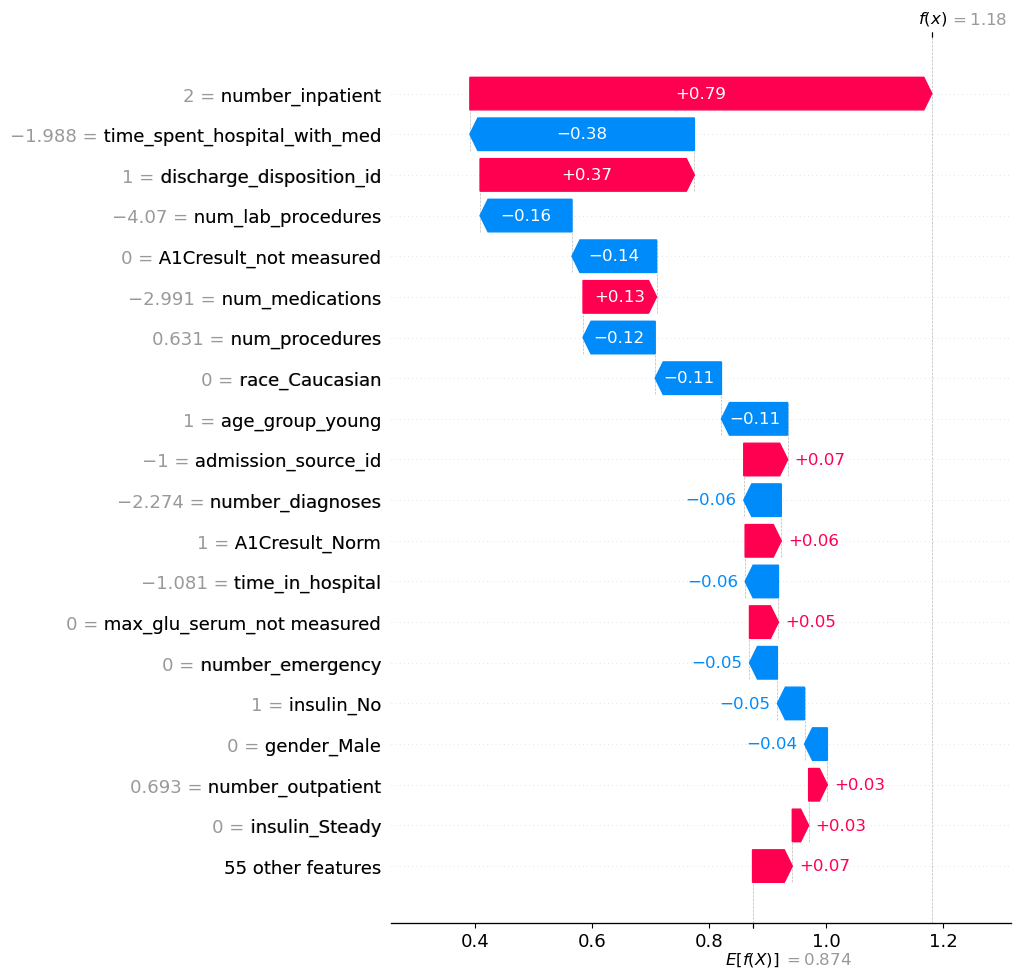
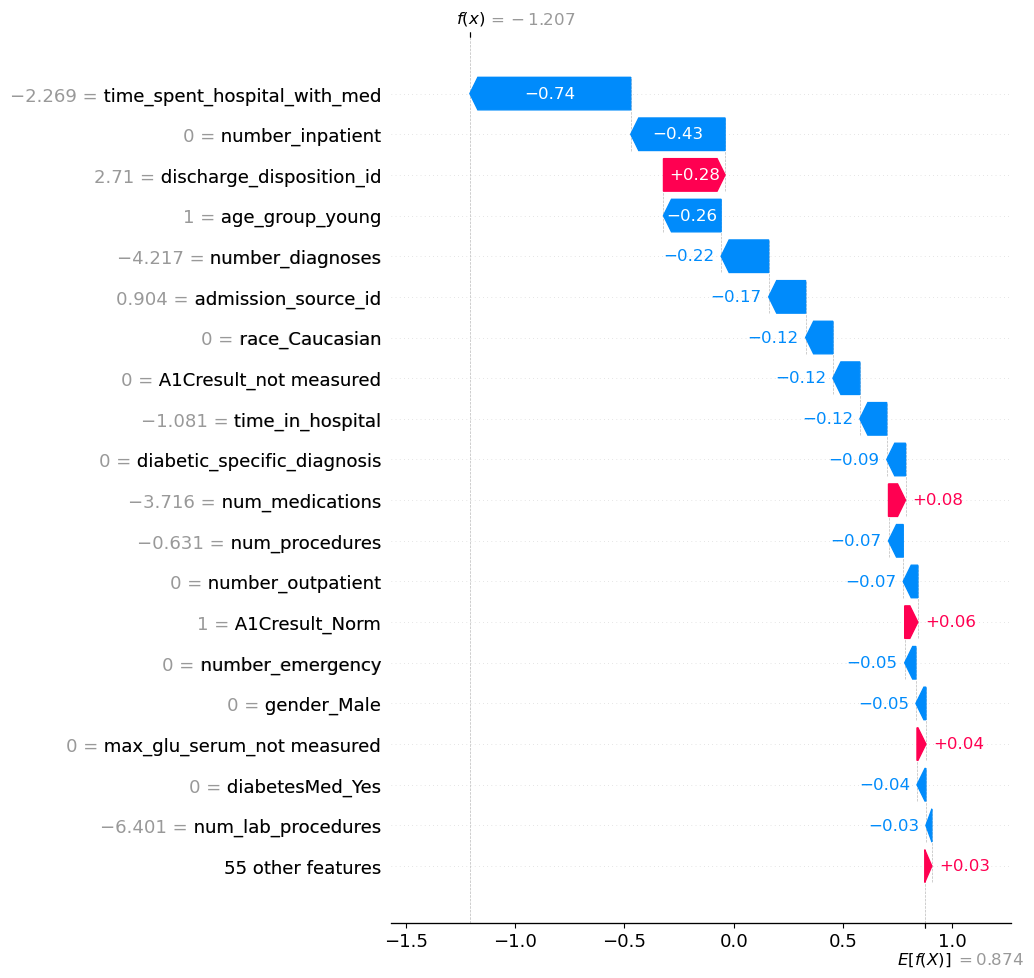
more changes on templates

diff --git a/Flask/templates/general_projects.html b/Flask/templates/general_projects.html
@@ -1,7 +1,54 @@
 {% extends 'bio.html' %}
 {% block title %}General Projects{% endblock %}
-{% block content %}
-<h1>General Projects</h1>
 
-<a href="https://github.com/slavdefense">Github</a>
+{% block content %}
+<div class="container mt-5">
+  <h1 class="mb-4 text-center">General Projects</h1>
+
+  <div class="row g-4">
+    <div class="col-md-6">
+      <div class="card h-100 shadow-sm">
+        <div class="card-body">
+          <h5 class="card-title">Casino Slot Game</h5>
+          <p class="card-text">A fun browser-based slot machine game (not real money).</p>
+          <a href="https://sagun-shresthaslotmachine.surge.sh/" class="btn btn-outline-primary" target="_blank">View Live</a>
+        </div>
+      </div>
+    </div>
+
+    <div class="col-md-6">
+      <div class="card h-100 shadow-sm">
+        <div class="card-body">
+          <h5 class="card-title">Bike Trail Blog App</h5>
+          <p class="card-text">Full-stack blog platform to share and explore biking trails.</p>
+          <a href="https://github.com/slavdefense/mountainbike-trail-youlove" class="btn btn-outline-primary" target="_blank">GitHub Repo</a>
+        </div>
+      </div>
+    </div>
+
+    <div class="col-md-6">
+      <div class="card h-100 shadow-sm">
+        <div class="card-body">
+          <h5 class="card-title">Backlog Project Manager</h5>
+          <p class="card-text">A MERN stack app to organize tasks and manage workflows.</p>
+          <a href="https://github.com/slavdefense/Backlog-MERN-Stack" class="btn btn-outline-primary" target="_blank">GitHub Repo</a>
+        </div>
+      </div>
+    </div>
+
+    <div class="col-md-6">
+      <div class="card h-100 shadow-sm">
+        <div class="card-body">
+          <h5 class="card-title">Car Rental Platform</h5>
+          <p class="card-text">A peer-to-peer vehicle rental web app inspired by Airbnb.</p>
+          <a href="https://github.com/slavdefense/Car-rental-made-easy" class="btn btn-outline-primary" target="_blank">GitHub Repo</a>
+        </div>
+      </div>
+    </div>
+  </div>
+
+  <div class="text-center mt-5">
+    <a href="https://github.com/slavdefense" class="btn btn-dark" target="_blank">Github</a>
+  </div>
+</div>
 {% endblock %}

diff --git a/Flask/templates/bio.html b/Flask/templates/bio.html
@@ -20,7 +20,9 @@
     <p>
        I am also a passionate cook. I love cooking Himalayan cusine. Momo dumplings from Nepal are my favorites to cook. If you are ever in Los angeles area, I provide Momo dumplings in a street style setting in weekends. You can check it out here.
        <a href="https://www.instagram.com/namastekathmanduofficial?igsh=NTc4MTIwNjQ2YQ%3D%3D&utm_source=qr">Instagram</a>
-        Outside of tech, I’m also a part-time DJ and musician. I love playing guitar and singing—especially classic rock and metal. If you're into that vibe, feel free to check out my YouTube channel where I post music covers and performances.
+    </p>
+    <p>
+        Outside of tech, I’m also a part-time DJ and musician. I love playing guitar and singing(especially classic rock and metal). If you're into that vibe, feel free to check out my YouTube channel where I post music covers and performances.
       <a href="https://www.youtube.com/watch?v=e5CjBhd7P64&ab_channel=nepGrungeCast">Youtube</a>
     </p>
   </div>

diff --git a/Flask/templates/diabetes_form.html b/Flask/templates/diabetes_form.html
@@ -216,7 +216,7 @@
     <p>The predicted readmission rate for diabetes is generated by an algorithm developed as part of my Master's in Data Science project. This prediction is for informational purposes only and should not be considered medical advice. Please consult a qualified medical professional for an accurate assessment of readmission risk.</p>
   </div>
 
-  <h2>Result: {{ results }}</h2>
+  <h2>{{ results }}</h2>
 
   {% if my_plot %}
   <h3>Waterfall Plot</h3>

diff --git a/Flask/app.py b/Flask/app.py
@@ -13,8 +13,12 @@ from matplotlib.figure import Figure
 #                   general_projects.html
 #                   mle.htmls
 #                   resume.html
-#                   Image generated by SHAP
-#                   Resume PDF
+#                   Image generated by SHAP (Is generated after user clicks submit #                   button)
+#                   My Resume PDF
+# 
+# HTML Layout styled with Bootstrap 5 templates from https://getbootstrap.com/docs/5.0/getting-started/introduction/
+# Constructed SHAP explanation as reccomended in the SHAP documentation from https://shap.readthedocs.io/en/latest/generated/shap.Explanation.html
+
 # Date: April 22, 2025
 #---------------------------------------------------------------------------------------------------------
 
@@ -63,9 +67,6 @@ def index():
   
     return render_template("bio.html")
 
-
-
-
 @app.route('/resume')
 def resume():
     return render_template('resume.html')
@@ -97,7 +98,11 @@ def predict_readmittance():
 
             form_val_df = pd.DataFrame([data])
             #Here we are using our XBG model to predict the readmittance using the value we grabbed from the form
-            prediction = best_model.predict(form_val_df)[0]
+            #because the value is a numpy class converting into python class int
+            prediction = int(best_model.predict(form_val_df)[0])
+            # Make prediction string more meanigful for template display
+            prediction = "Not likely to be readmitted" if prediction == 0 else "Most likely to be readmitted"
+            print(f"class Type of prediction is {type(prediction)}")
             # Getting the preprocessor and classifier from the pipeline
             preprocessor = best_model.named_steps["preprocessor"]
             classifier   = best_model.named_steps["classifier"]
